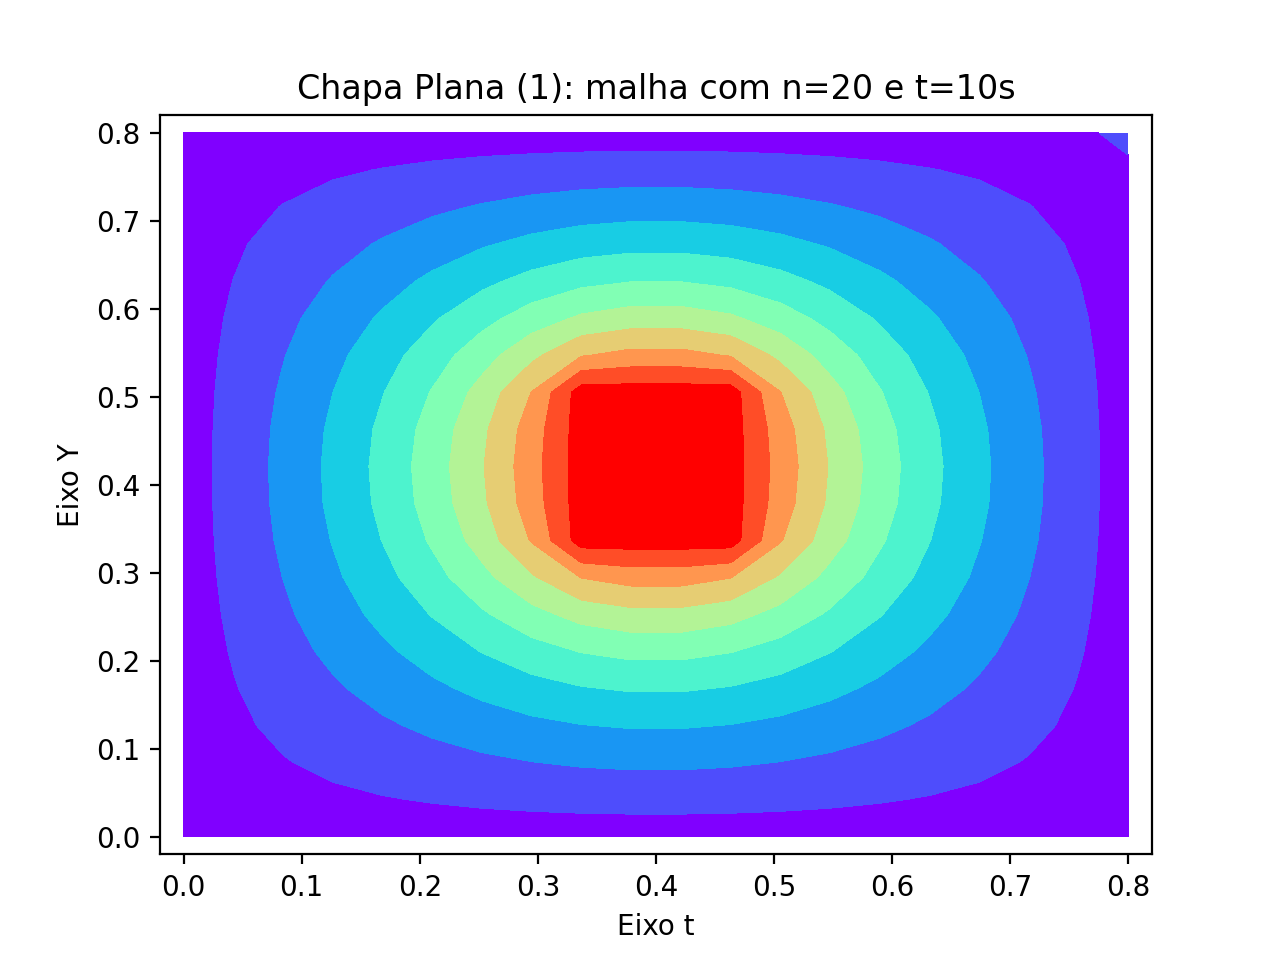
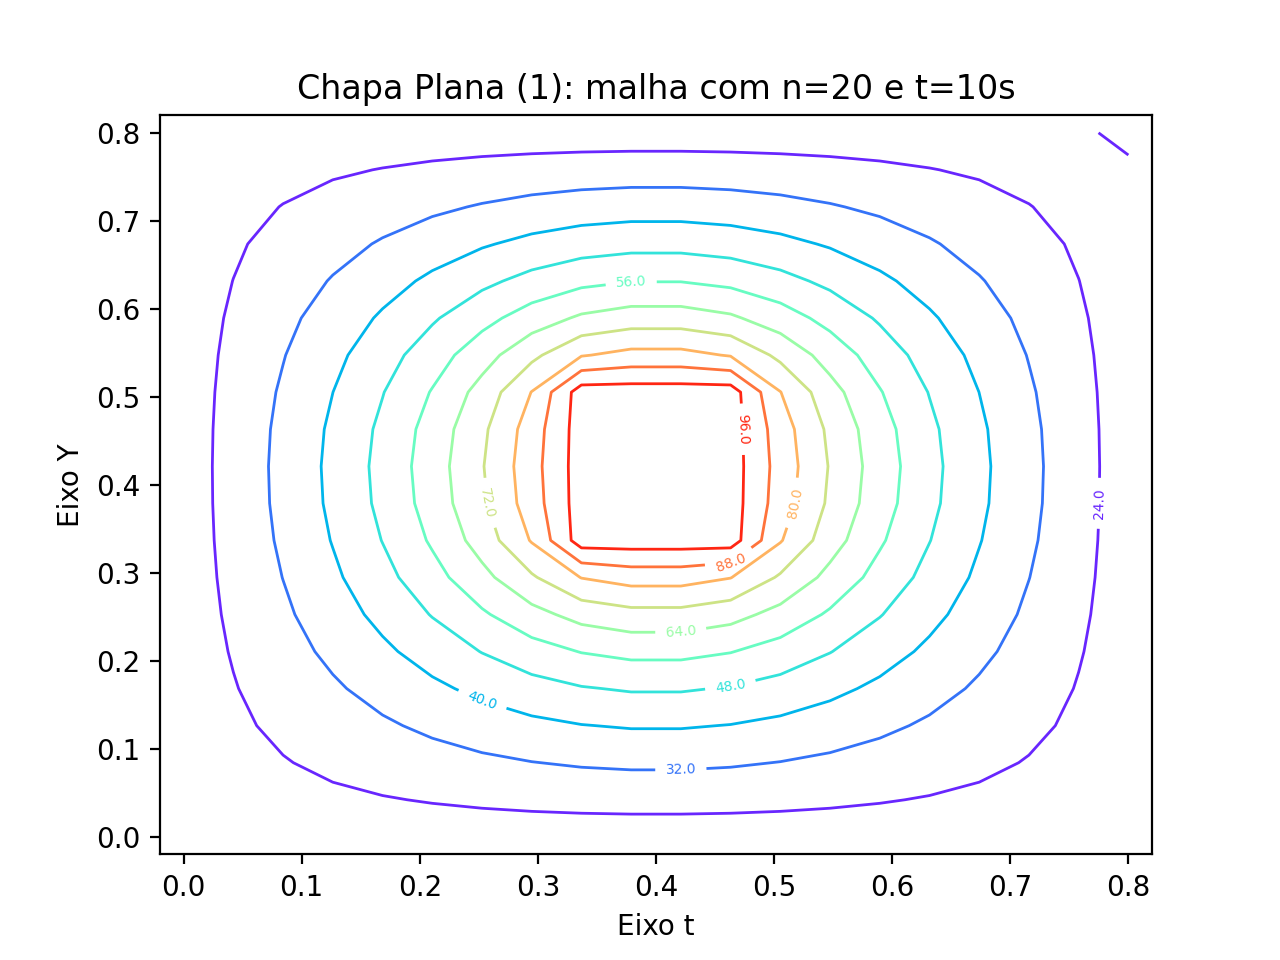
alterações

diff --git a/testes/ex1.py b/testes/ex1.py
@@ -2,14 +2,13 @@ import matplotlib.pyplot as plt
 import numpy as np
 import time 
 
-
 # configurando variáveis
 tempo_total = 30
 Te = 20 # temperatura na extremidade
 Ti = 30 # temperatura inicial da chapa
 Tb = 100 # temperatura do buraco central
-L = 0.9 # tamanho do lado da chapa
-n = 21 # valor de n da malha
+L = 0.8 # tamanho do lado da chapa
+n = 20 # valor de n da malha
 a = 0.016
 s = 0.1
 dx = L/n
@@ -26,33 +25,31 @@ T[0:n-1, 0] = Te
 T[0:n-1, n-1] = Te
 T[0, 0:n-1] = Te
 T[n-1, 0:n-1] = Te
+
 # aplicando as temperaturas no buraco da chapa
-def meio_da_chapa():
-    meio = int(n/2) # metade do tamanho da chapa
-    tamanho = int(meio*2/3) # tamanho do buraco
-    T[meio, meio:meio+tamanho] = Tb
-    for k in range(tamanho):
-        T[meio-tamanho+k, meio:meio+k] = Tb
-        T[meio-tamanho+k, meio:meio-k:-1] = Tb
-        T[meio+tamanho-k, meio:meio+k] = Tb
-        T[meio:meio+k, meio-tamanho+k:meio] = Tb
+meio = int(n/2) # metade do tamanho da chapa
+tamanho = int(meio/4) # tamanho do buraco
+for k in range(int(n/4)):
+    T[meio-tamanho+k, meio-tamanho:meio+tamanho] = 100
 
-
-meio_da_chapa()
 # iniciar método de euler explícito
 imag_10s = True
 imag_20s = True
 t = 0
-
 inicio = time.time()
-print(inicio)
 while True:
-    To = T.copy() # salva os valores da matriz T
+    To = T.copy() # salva os valores da matrix T
     for j in range(1, n-1):
         for i in range(1, n-1):
-            T[i, j] = To[i, j] + dt*a*(((To[i-1, j] - 2*To[i, j] + To[i+1, j])/dx**2) + ((To[i, j-1] - 2*To[i,j] + To[i, j+1])/dy**2))
-            # aplicando as temperaturas no buraco da chapa, pois são constantes
-            meio_da_chapa()
+            T[i, j] = To[i, j] + dt*a*(((To[i-1, j] - 2*To[i, j] + To[i+1, j])/dx**2) + 
+                                        ((To[i, j-1] - 2*To[i,j] + To[i, j+1])/dy**2))
+            
+            
+    
+    # aplicando as temperaturas no buraco da chapa, pois são constantes
+    for k in range(int(n/4)):
+        T[meio-tamanho+k, meio-tamanho:meio+tamanho] = Tb
+    
     t += dt
     # verifica se chegou nos tempos para salvar o estado atual e depois plotar
     if t >= 10 and imag_10s:
@@ -61,8 +58,10 @@ while True:
     elif t >= 20 and imag_20s:
         imag_20s = False
         T20 = T.copy()
-    elif t >= tempo_total:
+    elif t >= 30:
         T30 = T.copy()
+        # saindo do loop pois t já chegou em 30s
+        break
 
 # por ser 3 gráficos decidi salvar como imagem para visualizar todos no final
 # preparando plot
@@ -72,17 +71,20 @@ def salvar_grafico(arquivo_nome, matrix, tempo):
     ax = plt.subplot()
     plt.xlabel('Eixo t')
     plt.ylabel('Eixo Y')
-    plt.xlim([-0.02, 0.92])
-    plt.ylim([-0.02, 0.92])
-    plt.title(f'Chapa Plana (2): malha com n={n} e t={tempo}s')
+    plt.xlim([-0.02, 0.82])
+    plt.ylim([-0.02, 0.82])
+    plt.title(f'Chapa Plana (1): malha com n={n} e t={tempo}s')
     grafico = ax.contour(X, Y, matrix, 12, vmin=Te, vmax=Tb, linewidths=1, cmap='rainbow') 
+    #chapa = plt.Rectangle((0,0), 0.8, 0.8, edgecolor='lightgrey', facecolor='wheat')
+    #buraco = plt.Rectangle((0.3, 0.3), 0.2, 0.2, edgecolor='lightgrey', facecolor='white')
+    #plt.gca().add_patch(chapa)
+    #plt.gca().add_patch(buraco)
     ax.clabel(grafico, fontsize=5, fmt ='%1.1f')
     plt.savefig(f'{arquivo_nome}{tempo}.png', dpi=200)
     ax.clear()
 
-
 # salvando as imagens
-salvar_grafico('chapa_02_t', T10, 10)
-salvar_grafico('chapa_02_t', T20, 20)
-salvar_grafico('chapa_02_t', T30, tempo_total)
+salvar_grafico('chapa_01_t', T10, 10)
+salvar_grafico('chapa_01_t', T20, 20)
+salvar_grafico('chapa_01_t', T30, 30)
 print('tempo: {}  FIM'.format(time.time()-inicio))

diff --git a/ex01/ex1.py b/ex01/ex1.py
@@ -2,6 +2,7 @@ import matplotlib.pyplot as plt
 import numpy as np
 import time 
 
+
 # configurando variáveis
 tempo_total = 30
 Te = 20 # temperatura na extremidade
@@ -38,17 +39,14 @@ imag_20s = True
 t = 0
 inicio = time.time()
 while True:
-    To = T.copy() # salva os valores da matrix T
+    To = T.copy() # salva os valores da matriz T
     for j in range(1, n-1):
         for i in range(1, n-1):
             T[i, j] = To[i, j] + dt*a*(((To[i-1, j] - 2*To[i, j] + To[i+1, j])/dx**2) + 
                                         ((To[i, j-1] - 2*To[i,j] + To[i, j+1])/dy**2))
-            
-            
-    
-    # aplicando as temperaturas no buraco da chapa, pois são constantes
-    for k in range(int(n/4)):
-        T[meio-tamanho+k, meio-tamanho:meio+tamanho] = Tb
+            # aplicando as temperaturas no buraco da chapa, pois são constantes
+            for k in range(int(n/4)):
+                T[meio-tamanho+k, meio-tamanho:meio+tamanho] = Tb
     
     t += dt
     # verifica se chegou nos tempos para salvar o estado atual e depois plotar
@@ -58,7 +56,7 @@ while True:
     elif t >= 20 and imag_20s:
         imag_20s = False
         T20 = T.copy()
-    elif t >= 30:
+    elif t >= tempo_total:
         T30 = T.copy()
         # saindo do loop pois t já chegou em 30s
         break
@@ -75,16 +73,13 @@ def salvar_grafico(arquivo_nome, matrix, tempo):
     plt.ylim([-0.02, 0.82])
     plt.title(f'Chapa Plana (1): malha com n={n} e t={tempo}s')
     grafico = ax.contour(X, Y, matrix, 12, vmin=Te, vmax=Tb, linewidths=1, cmap='rainbow') 
-    #chapa = plt.Rectangle((0,0), 0.8, 0.8, edgecolor='lightgrey', facecolor='wheat')
-    #buraco = plt.Rectangle((0.3, 0.3), 0.2, 0.2, edgecolor='lightgrey', facecolor='white')
-    #plt.gca().add_patch(chapa)
-    #plt.gca().add_patch(buraco)
     ax.clabel(grafico, fontsize=5, fmt ='%1.1f')
     plt.savefig(f'{arquivo_nome}{tempo}.png', dpi=200)
     ax.clear()
 
+
 # salvando as imagens
 salvar_grafico('chapa_01_t', T10, 10)
 salvar_grafico('chapa_01_t', T20, 20)
-salvar_grafico('chapa_01_t', T30, 30)
+salvar_grafico('chapa_01_t', T30, tempo_total)
 print('tempo: {}  FIM'.format(time.time()-inicio))

diff --git a/ex02/ex22.py b/ex02/ex22.py
@@ -63,7 +63,7 @@ while True:
         T20 = T.copy()
     elif t >= tempo_total:
         T30 = T.copy()
-
+        print(1)
 # por ser 3 gráficos decidi salvar como imagem para visualizar todos no final
 # preparando plot
 X, Y = np.meshgrid(x, y)
@@ -84,5 +84,5 @@ def salvar_grafico(arquivo_nome, matrix, tempo):
 # salvando as imagens
 salvar_grafico('chapa_02_t', T10, 10)
 salvar_grafico('chapa_02_t', T20, 20)
-salvar_grafico('chapa_02_t', T30, tempo_total)
-print('tempo: {}  FIM'.format(time.time()-inicio))
+salvar_grafico('chapa_02_t', T30, 30)
+print('tempo: {}  FIM'.format(time.time()-inicio))        
